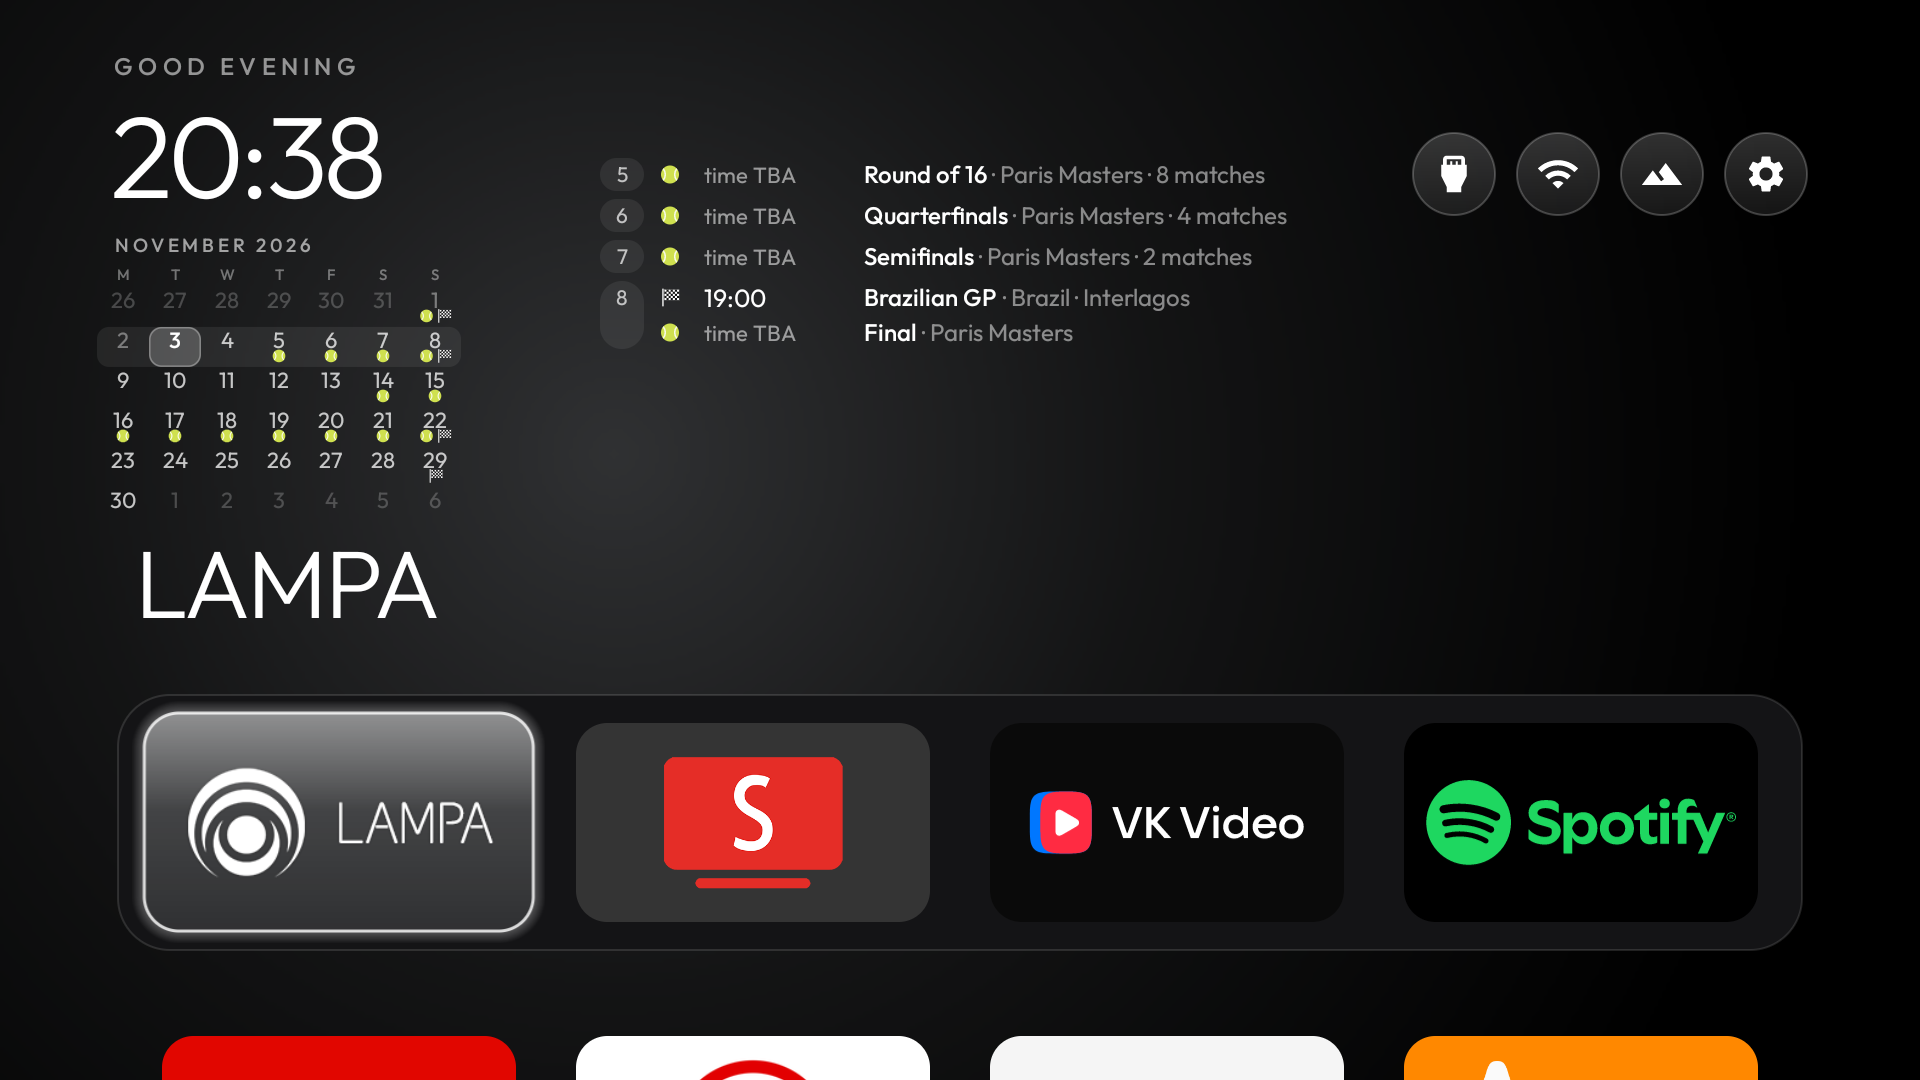
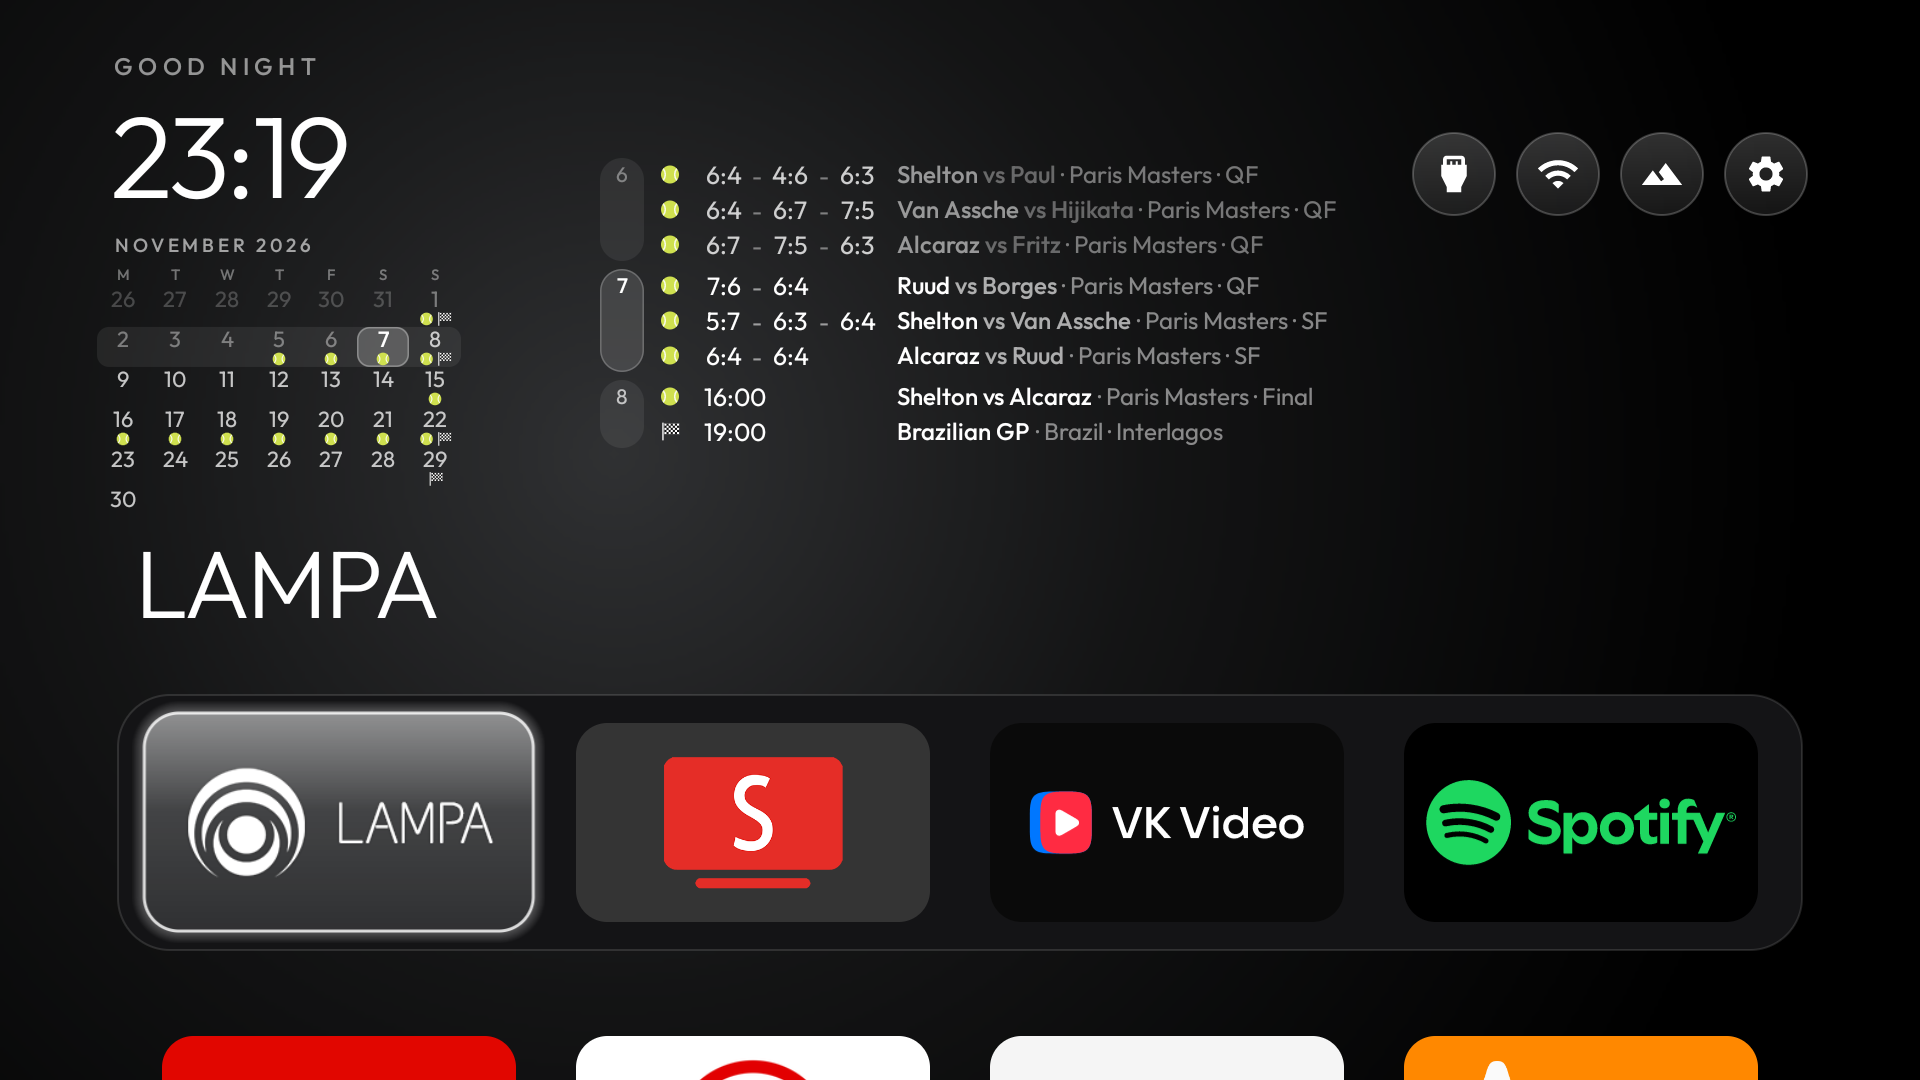
README: sport results, changelog, new screenshot

Changed region(s): [[0.3125, 0.1528, 0.6875, 0.4278], [0.0625, 0.275, 0.25, 0.4278], [0.0938, 0.0306, 0.2188, 0.1833]]

diff --git a/README.md b/README.md
@@ -6,7 +6,7 @@ A personal fork of [Gathin23/cleanyourtv](https://github.com/Gathin23/cleanyourt
 
 **What this fork adds**
 
-- **Sport calendar on Home.** A month grid under the clock (a ball marks tennis days, a flag marks F1) and this week's events beside it, in the TV's time zone. Off with `sport_calendar` in `launcher/app/src/main/res/values/config.xml`.
+- **Sport calendar on Home.** A month grid under the clock (a ball marks tennis days, a flag marks F1) and this week's events beside it, in the TV's time zone, with results once they are over: set scores for tennis, the podium for F1. Off with `sport_calendar` in `launcher/app/src/main/res/values/config.xml`. Changes: [CHANGELOG.md](CHANGELOG.md).
 - **Screensaver button.** A round landscape icon in the top bar starts the screensaver chosen in the TV's settings, and Back on Home does the same (`screensaver_button`, `back_opens_screensaver`).
 - **Small tuning.** Uninstall in the tile menu, round icon-only buttons, the app library.
 

diff --git a/CHANGELOG.md b/CHANGELOG.md
@@ -1,0 +1,9 @@
+# Changelog (this fork)
+
+## 2026-11-07
+
+- **Results on the sport calendar.** Finished tennis matches show the set score (6:4 - 7:6 - 6:2), finished F1 races show the podium as driver codes (VER HAM ANT). They appear on their own once the event is over.
+
+## 2026-11-04
+
+- **Sport calendar on Home.** A month grid under the clock and the week's F1 races and tennis matches beside it.
